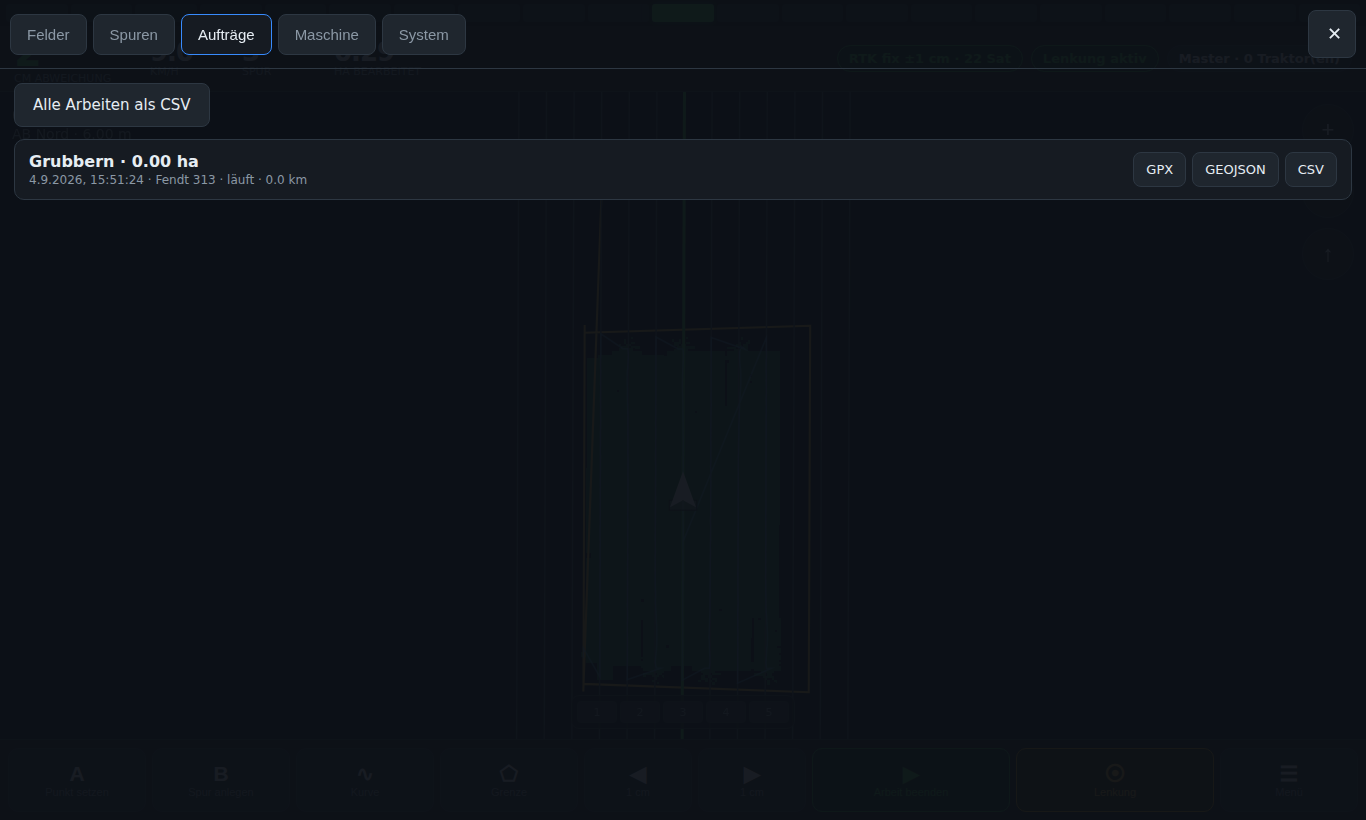
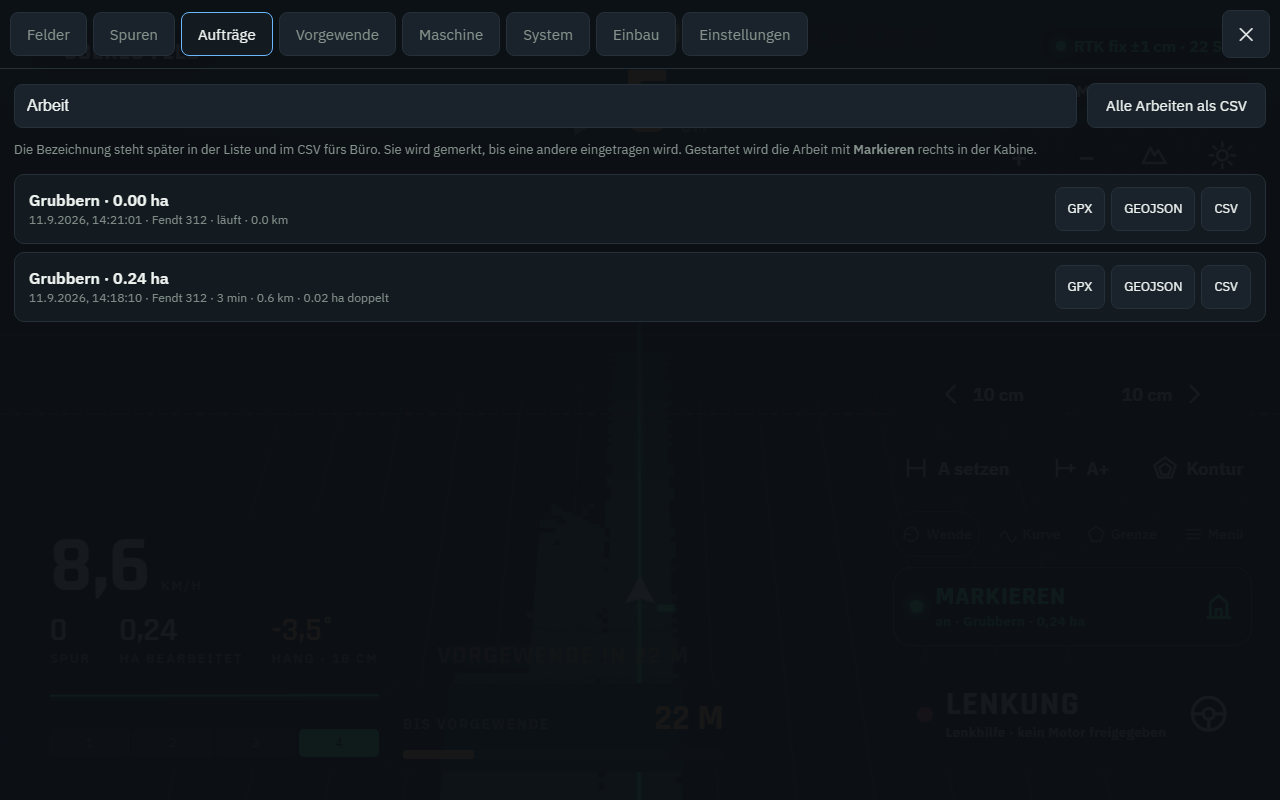
Bilder der neuen Kabine, und die Fläche bleibt nach dem Neuladen
docs/bilder: kabine.png, auftraege.png, system.png zeigen die neue
Anzeige - aufgenommen kopflos mit Chrome gegen den Simulator, nicht
gezeichnet. Dafür kann ein Menü-Reiter jetzt direkt angesteuert werden
(/#menu=setup öffnet die Inbetriebnahme) - auch als Lesezeichen auf dem
Tablet brauchbar.

Altfehler: beim Verbinden malte die Anzeige die bearbeitete Fläche aus
dem 'init' und löschte sie im selben Atemzug wieder, weil die
Feldwechsel-Erkennung den allerersten Zustand für einen Wechsel hielt.
Nach jedem Neuladen fing die Karte leer an, obwohl der Server alle
Zellen kannte. Gewechselt wird erst ab dem zweiten Bild.

Ansicht-Knöpfe (Näher, Weiter, Ansicht, Tag/Nacht) waagerecht unter den
Chips statt als Säule, die der Handlungsspalte ins Gehege kam; Symbole
in fester Größe.

diff --git a/gps/frontend/app.js b/gps/frontend/app.js
@@ -107,10 +107,12 @@ function onState(data) {
       if (state.trail.length > 900) state.trail.shift();
     }
   }
-  // Feldwechsel: alte Bedeckung gehört nicht auf das neue Feld
+  // Feldwechsel: alte Bedeckung gehört nicht auf das neue Feld. Aber erst ab
+  // dem zweiten Bild - das erste ist kein Wechsel, sondern der Anfang, und
+  // die eben im 'init' gemalte Fläche wäre sonst sofort wieder weg.
   const before = previous && previous.field ? previous.field.id : null;
   const now = data.field ? data.field.id : null;
-  if (before !== now) { clearCells(); state.trail = []; refreshLists(); }
+  if (previous && before !== now) { clearCells(); state.trail = []; refreshLists(); }
 
   updateHud(data);
 }
@@ -831,6 +833,17 @@ function touchDistance(event) {
 /* -------------------------------------------------------------- Menü */
 
 el('btnMenu').onclick = () => { el('sheet').hidden = false; refreshLists(); };
+
+/* Ein Reiter lässt sich direkt ansteuern: /#menu=setup öffnet die Inbetriebnahme.
+ * Für ein Lesezeichen auf dem Tablet - und für Bildschirmfotos der Doku. */
+function menueAusAdresse() {
+  const treffer = /menu=([a-z]+)/.exec(location.hash);
+  if (!treffer) return;
+  const tab = document.querySelector(`.tab[data-tab="${treffer[1]}"]`);
+  if (!tab) return;
+  el('sheet').hidden = false;
+  tab.onclick();
+}
 el('sheetClose').onclick = () => { el('sheet').hidden = true; };
 document.querySelectorAll('.tab').forEach((tab) => {
   tab.onclick = () => {
@@ -1447,4 +1460,5 @@ resize();
 connect();
 bildschirmWachhalten();
 requestAnimationFrame(render);
+menueAusAdresse();
 setInterval(() => { if (!el('sheet').hidden) refreshLists(); }, 5000);

diff --git a/gps/frontend/style.css b/gps/frontend/style.css
@@ -111,10 +111,10 @@ body.tag .hint { text-shadow: none; }
 @keyframes alarm { 50% { opacity: .35; } }
 
 /* --- Ansicht --- */
-.ansicht { position: absolute; right: calc(2.2 * var(--u)); top: calc(9.5 * var(--u)); display: flex; flex-direction: column; gap: calc(.7 * var(--u)); z-index: 3; }
+.ansicht { position: absolute; right: calc(2.2 * var(--u)); top: calc(9.8 * var(--u)); display: flex; flex-direction: row; gap: calc(.7 * var(--u)); z-index: 3; }
 .rund { width: calc(4.6 * var(--u)); height: calc(4.6 * var(--u)); min-width: 44px; min-height: 44px; border-radius: 50%; display: grid; place-items: center;
   background: var(--glas); color: var(--text); border: 1px solid var(--haar); backdrop-filter: blur(12px); -webkit-backdrop-filter: blur(12px); font-size: calc(2.2 * var(--u)); font-weight: 600; cursor: pointer; }
-.rund svg { width: 55%; height: 55%; stroke: currentColor; fill: none; stroke-width: 2; stroke-linecap: round; stroke-linejoin: round; }
+.rund svg { width: calc(2.4 * var(--u)); height: calc(2.4 * var(--u)); min-width: 22px; min-height: 22px; stroke: currentColor; fill: none; stroke-width: 2; stroke-linecap: round; stroke-linejoin: round; }
 .rund.an { color: var(--leucht); border-color: color-mix(in srgb, var(--leucht) 40%, transparent); }
 
 /* --- Fahrt-Cluster --- */
@@ -207,7 +207,7 @@ body.tag .hint { text-shadow: none; }
   /* Die Chips rücken unter den Balken - nebeneinander ist hochkant kein Platz. */
   .chips { top: calc(13 * var(--u)); }
   .cluster { top: calc(25 * var(--u)); }   /* unter den Chips samt Hinweiszeile */
-  .ansicht { top: calc(25 * var(--u)); }
+  .ansicht { top: calc(19 * var(--u)); }
 }
 
 /* --- Menü --- */

diff --git a/gps/docs/BEDIENUNG.md b/gps/docs/BEDIENUNG.md
@@ -2,6 +2,8 @@
 
 ## Der Bildschirm
 
+![Die Kabine](bilder/kabine.png)
+
 Die Anzeige ist der Blick über die Haube: das Feld liegt in Perspektive vor dem
 Traktor, die Spur läuft zum Horizont. Alles Wichtige liegt als Glasfläche
 darüber.
@@ -109,6 +111,8 @@ Angelegte Spuren stehen unter **Menü → Spuren** und lassen sich jederzeit wie
 laden. Die Kontur steht nicht in dieser Liste; sie wird über den Knopf geholt.
 
 ## Arbeiten
+
+![Aufträge](bilder/auftraege.png)
 
 **Markieren** drücken. Die Bezeichnung (Grubbern, Säen, Spritzen) steht unter
 **Menü → Aufträge** und bleibt, bis eine andere eingetragen wird. Ab jetzt:
